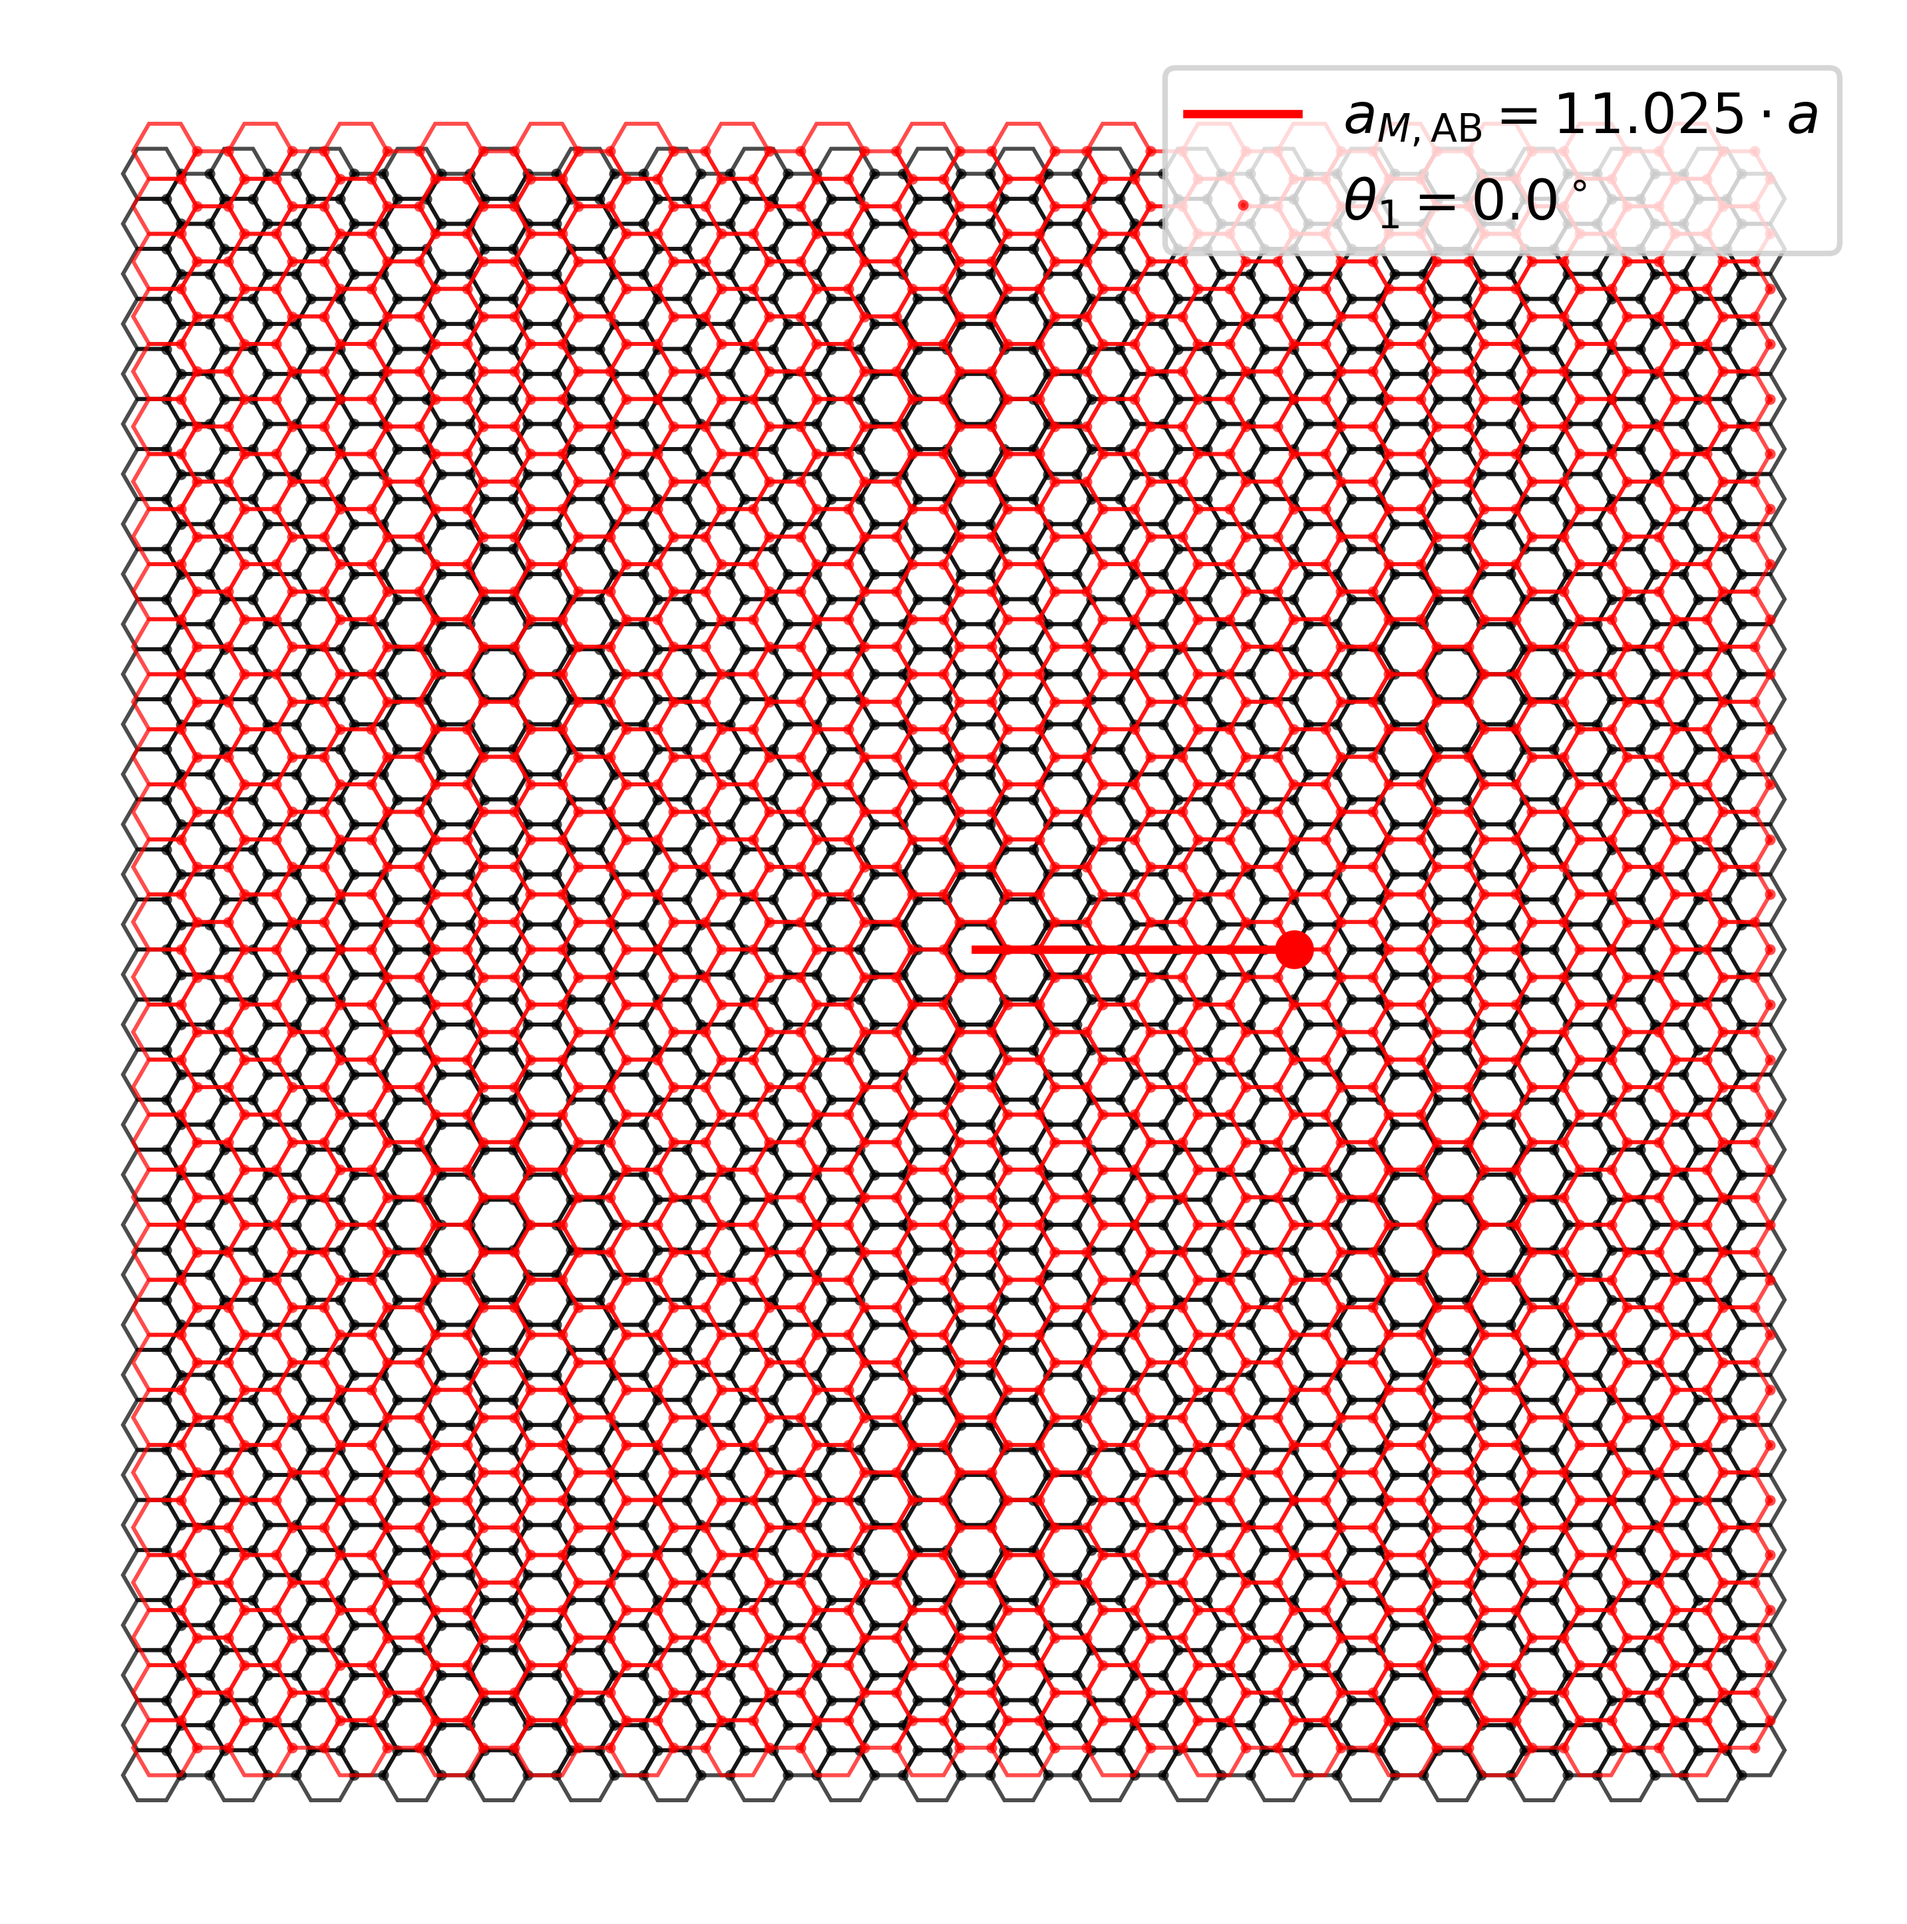
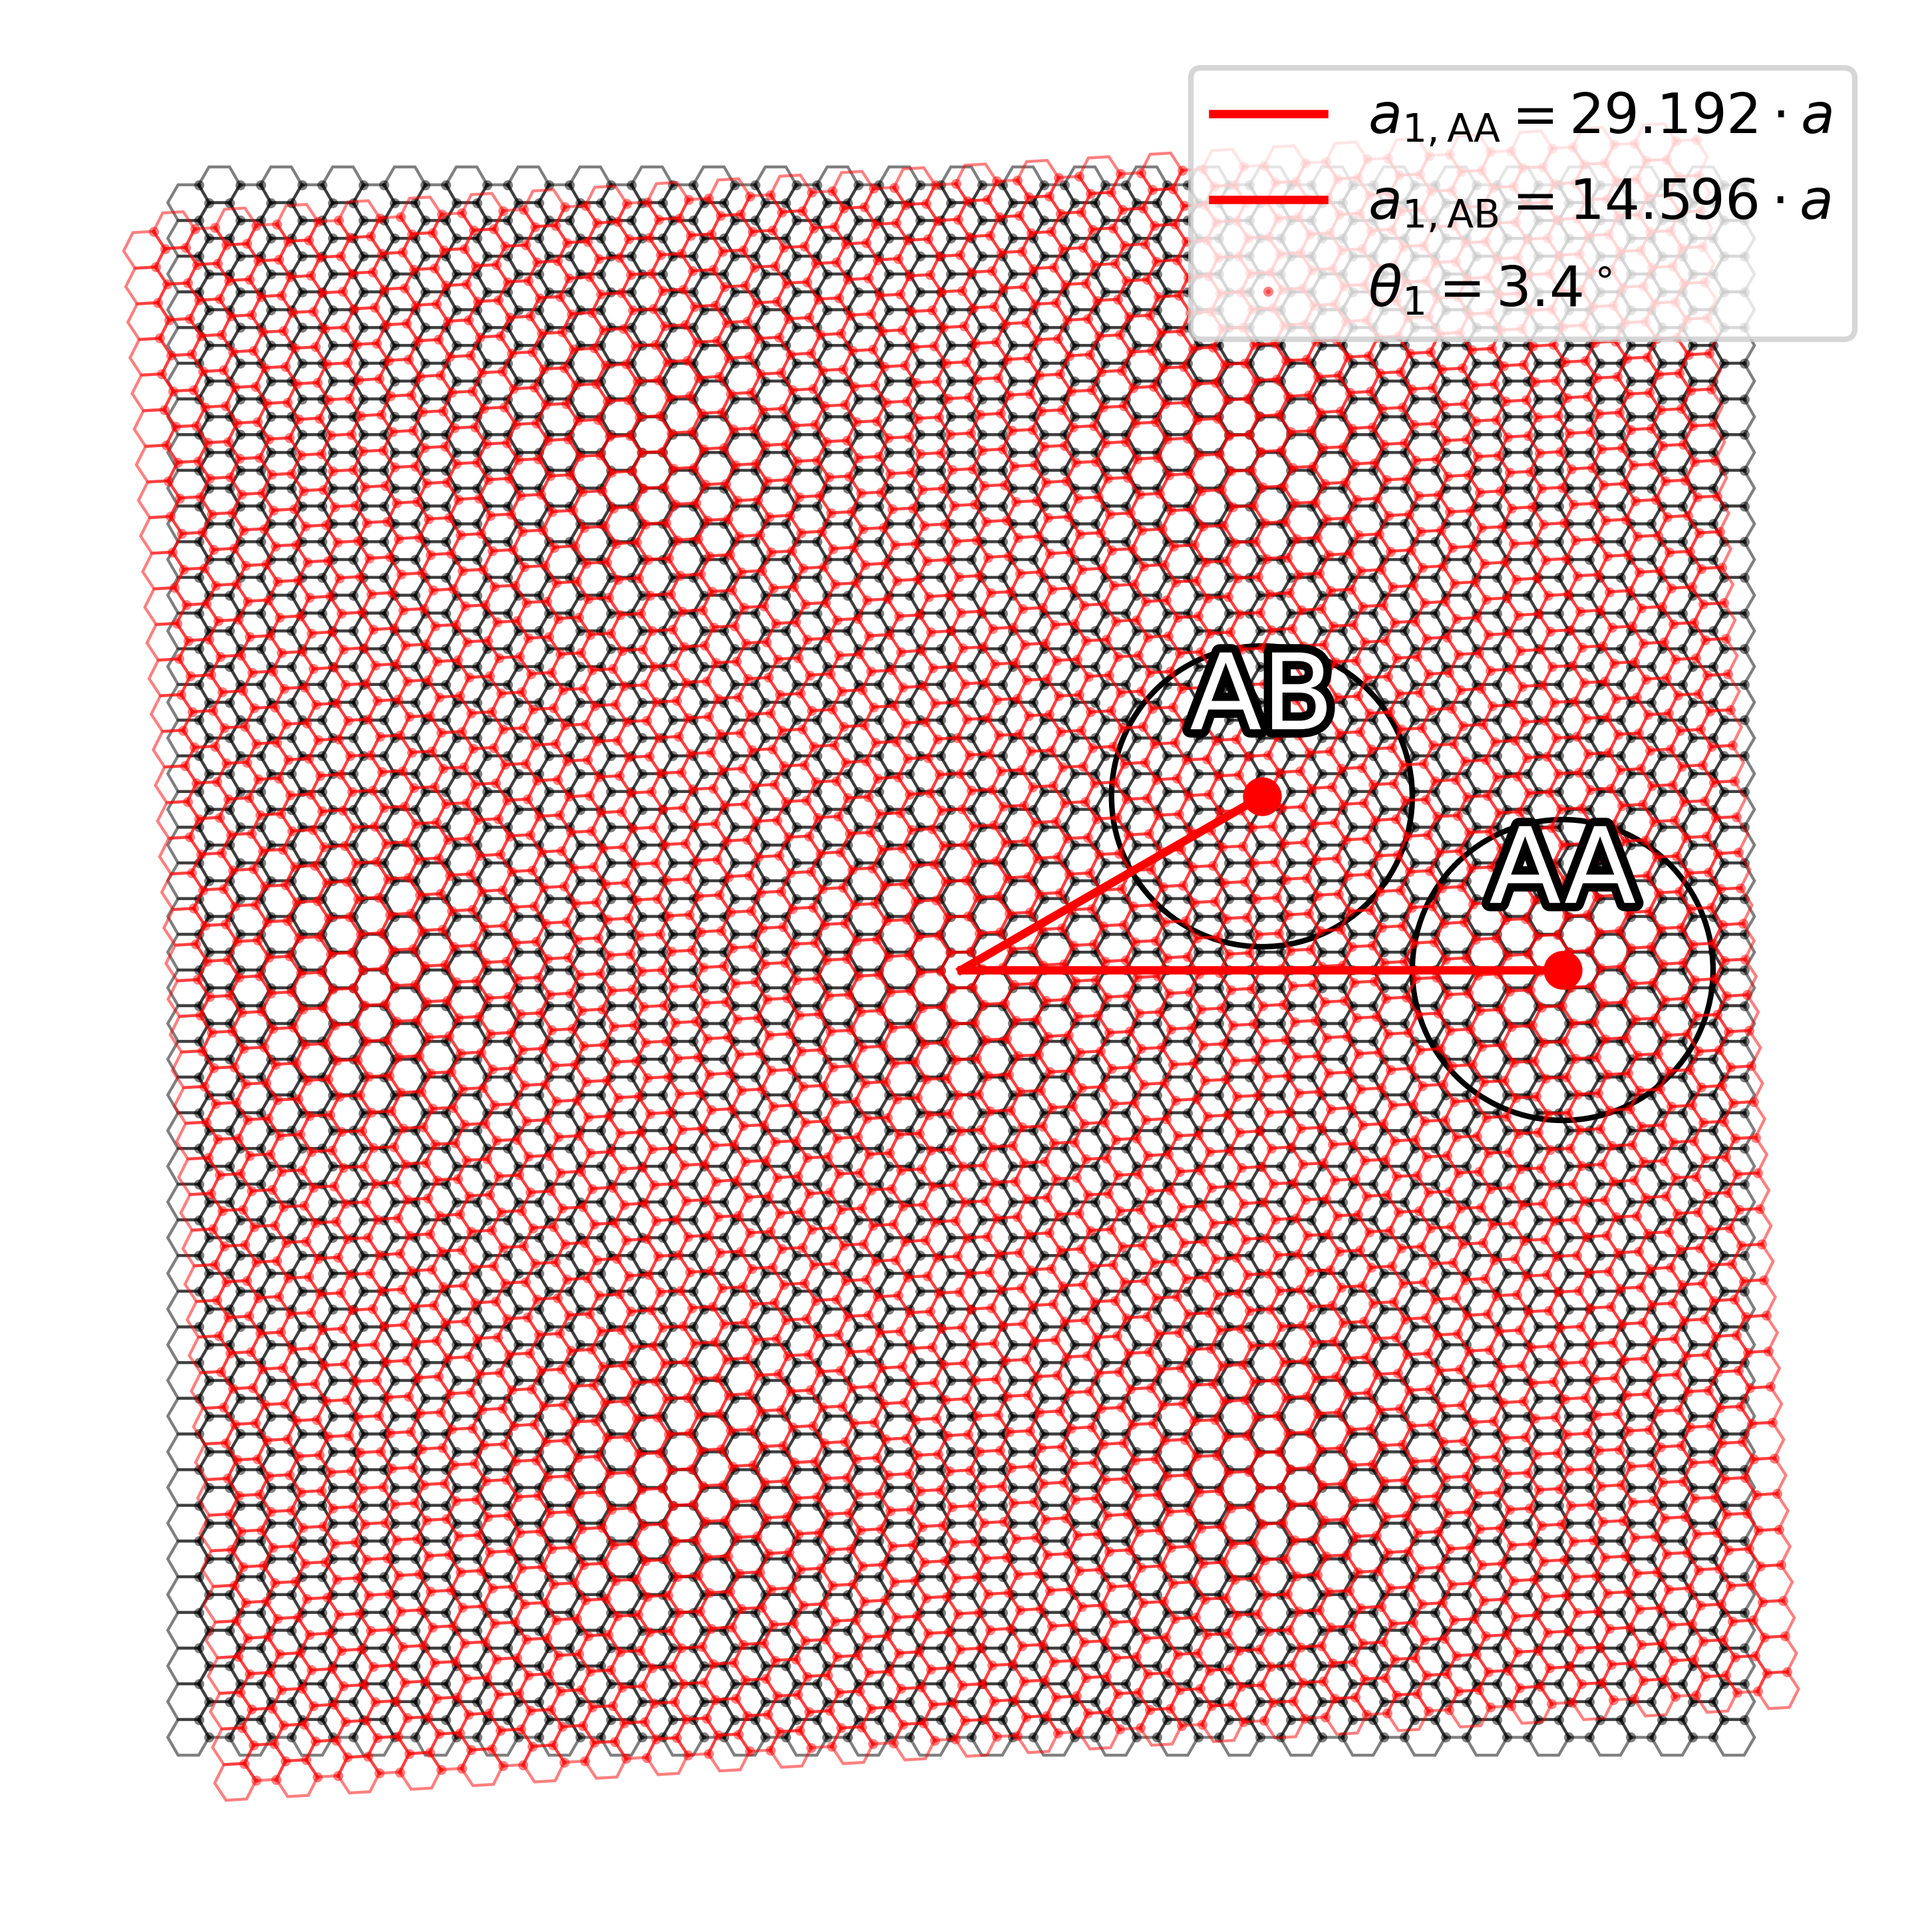
Added moire_utils to clean up moire_gen

diff --git a/Moire_gen_try/moire_utils.py b/Moire_gen_try/moire_utils.py
@@ -1,0 +1,241 @@
+# The following functions are used internally to generate and plot the moiré patterns. 
+# You don’t need to modify them unless you want to extend the functionality.
+
+import numpy as np
+import matplotlib.pyplot as plt
+import matplotlib.patches as patches
+from matplotlib import animation
+import matplotlib.patheffects as patheffects
+
+def hexlattice_gen(n, a):
+    x = np.arange(-n, n, a)
+    y = np.arange(-n, n, np.sqrt(3)/2 * a)
+    X, Y = np.meshgrid(x, y)
+    X[1::2, :] += a / 2  
+    
+    points = np.vstack([X.ravel(), Y.ravel()]).T
+    sentrum_points = []
+    for i in range(X.shape[0]):
+        row_x = X[i]
+        row_y = Y[i]
+        offset = 0 if i % 2 == 0 else 1
+        for j in range(offset, X.shape[1], 3):
+            sentrum_points.append([row_x[j], row_y[j]])
+    sentrum_points = np.array(sentrum_points)
+    center_point = sentrum_points[np.argmin(np.linalg.norm(sentrum_points, axis=1))]
+    points -= center_point
+    sentrum_points -= center_point
+    filtered_points = remove_centers(points, sentrum_points)
+    return filtered_points, sentrum_points
+
+def remove_centers(points, sentrum_points):
+    mask = np.ones(len(points), dtype=bool)
+    for sp in sentrum_points:
+        mask &= ~np.all(points == sp, axis=1)
+    return points[mask]
+
+def rot_lattice(points, theta): 
+    theta_rad = np.radians(theta)
+    rotation_matrix = np.array([[np.cos(theta_rad), -np.sin(theta_rad)],
+                                 [np.sin(theta_rad),  np.cos(theta_rad)]])
+    rotated_points = points @ rotation_matrix.T
+    return rotated_points
+
+def draw_hexagons(ax, sentrum_points_rotated, sentrum_points_original, a, color, alpha, linewidth):
+    for (cx, cy), (cx0, cy0) in zip(sentrum_points_rotated, sentrum_points_original):
+        v0 = np.array([cx0, cy0, 0])
+        v1 = np.array([cx, cy, 0])
+        det = np.cross(v0, v1)[2]
+        dot = np.dot(v0, v1)
+        delta_phi = np.degrees(np.arctan2(det, dot))
+        orientation_rad = np.radians(30 + delta_phi)
+        hexagon = patches.RegularPolygon(
+            (cx, cy), numVertices=6, radius=a, orientation=orientation_rad,
+            facecolor='none', edgecolor=color, alpha=alpha, linewidth=linewidth)
+        ax.add_patch(hexagon)
+
+def plot_a2_line(theta, a, color, i, variant, marker, show_stacking = False, ax=None, n=None): 
+    if show_stacking: variant = 'AA' 
+    if variant == 'AB': a = a / 2 
+    if theta == 0: a2 = a 
+    else: a2 = a / (2 * np.sin(np.radians(theta) / 2)) * np.cos(np.pi/6) 
+    x = np.linspace(0, a2, 300) 
+    y = np.zeros_like(x) 
+    label = fr'$a_{{{i},\mathrm{{{variant}}}}} = {a2:.3f}\cdot a$' 
+    if marker and variant == 'AA': 
+        x = np.linspace(0, a2, 300) 
+        y = np.zeros_like(x) 
+        plt.plot(x, y, '-', color = color, label = label) 
+        plt.plot(a2, 0, 'o', color = color) 
+        if show_stacking: 
+            path_effects = [patheffects.withStroke(linewidth=3, foreground='black', capstyle="round")] 
+            radius = a2/4 
+            circle = plt.Circle((a2, 0), radius=radius, color='Black', fill=False) 
+            ax.annotate("AA", xy=(a2, 0 + radius*0.3), fontsize=n/2, color='white',
+                        xycoords='data', ha='center', va='bottom',
+                        path_effects=path_effects)
+            plt.gca().add_patch(circle) 
+    if show_stacking: variant = 'AB' ; a2 = a2/2 ; label = fr'$a_{{{i},\mathrm{{{variant}}}}} = {a2:.3f}\cdot a$' 
+    if marker and variant == 'AB': 
+        a2 = a2 / np.cos(np.pi/6) 
+        x = np.linspace(0, a2, 300) 
+        y = np.zeros_like(x) 
+        points = np.stack([x, y], axis=-1) 
+        rot_vec = rot_lattice(points, 30) 
+        plt.plot(rot_vec[:, 0], rot_vec[:, 1], '-', color = color, label = label) 
+        plt.plot(rot_vec[-1, 0], rot_vec[-1, 1], 'o', color = color) 
+        if show_stacking: 
+            circle = plt.Circle((rot_vec[-1, 0], rot_vec[-1, 1]), radius=radius, color='Black', fill=False)
+            ax.annotate("AB", xy=(rot_vec[-1, 0], rot_vec[-1, 1] + radius*0.3), fontsize=n/2, color='white',
+                        xycoords='data', ha='center', va='bottom',
+                        path_effects=path_effects) 
+            plt.gca().add_patch(circle) 
+        else: plt.plot([], [], '-', color=color, label=label) 
+        plt.legend(loc='upper right')
+
+def plot_mult_hexlattice(a, layers, alpha, theta_max, n = 10, marker = True, 
+                         variant = 'AA', show_stacking = False):
+    colors = ['black', 'red', 'green', 'blue', 'orange']
+    fig, ax = plt.subplots(figsize=(6, 6))
+
+    for i in range(layers):
+        points, sentrum_points_orig = hexlattice_gen(n, a)
+        layer_theta = theta_max * i
+        points_rotated = rot_lattice(points, layer_theta)
+        sentrum_points_rotated = rot_lattice(sentrum_points_orig, layer_theta)
+        if i != 0: label = fr'$\theta_{{{i}}} = {layer_theta:.1f}^\circ$'
+        else: label = ''
+        if i != 0: plot_a2_line(layer_theta, a*2, colors[i % len(colors)], i, variant, marker, show_stacking, ax, n)
+        draw_hexagons(ax, sentrum_points_rotated, sentrum_points_orig, a,
+                      color=colors[i % len(colors)], alpha=alpha,
+                      linewidth=20/n)
+        ax.scatter(points_rotated[:, 0], points_rotated[:, 1],
+                   s=25/n, color=colors[i % len(colors)], alpha=alpha,
+                   label=label)
+
+    ax.set_aspect('equal')
+    plt.axis('off')
+    plt.legend(loc='upper right')
+    plt.savefig('moire_same_a.png', dpi=600, bbox_inches='tight', transparent=True)
+    plt.show()
+
+def plot_hexlattice_gif(a = 1.0, layers = 3, alpha = 0.6, theta_max = 30, n = 10, frames = 36, 
+                        filename = 'hex_rotation.gif', variant = 'AA', marker = True):
+    fig, ax = plt.subplots(figsize=(6, 6))
+
+    base_points, _ = hexlattice_gen(n, a)
+    max_extent = np.max(np.abs(base_points)) + a * 2
+    ax.set_xlim(-max_extent, max_extent)
+    ax.set_ylim(-max_extent, max_extent)
+
+    def update(frame):
+        ax.clear()
+        ax.set_xlim(-max_extent, max_extent)
+        ax.set_ylim(-max_extent, max_extent)
+        ax.set_aspect('equal')
+        ax.axis('off')
+
+        colors = ['black', 'red', 'green', 'blue', 'orange']
+        theta = frame / (frames - 1) * theta_max
+        for i in range(layers):
+            points, sentrum_points = hexlattice_gen(n, a)
+            points = rot_lattice(points, theta * i)
+            sentrum_points_orig = sentrum_points.copy()
+            sentrum_points = rot_lattice(sentrum_points, theta * i)
+            if i != 0: plot_a2_line(theta * i, a*2, colors[i % len(colors)], i, variant, marker)
+            draw_hexagons(ax, sentrum_points, sentrum_points_orig, a, colors[i % len(colors)], alpha=alpha, linewidth=20/n)
+            ax.scatter(points[:, 0], points[:, 1], s=25/n, color=colors[i % len(colors)], alpha=alpha)
+        ax.set_title(f'Rotation Angle from original axis: {theta:.1f}°')
+    anim = animation.FuncAnimation(fig, update, frames=frames, interval=100)
+    anim.save(filename, writer='pillow')
+    plt.close(fig)
+
+# For valying a:
+
+def plot_a2_line_diff_a(theta, a_arr, color, i, variant = 'AA', marker = True):
+    theta_rad = np.deg2rad(theta)
+    a_ref = np.mean(a_arr)
+    delta = (a_arr - a_ref) / a_ref
+    epsilon = 1e-6
+    denom = np.sqrt(delta**2 + theta_rad**2)
+    denom = np.where(denom == 0, epsilon, denom)
+    a_moire = a_ref / denom
+    if variant == 'AB': 
+        a_moire = a_moire / 2
+        a_moire_proj = a_moire
+    else: a_moire_proj = a_moire * np.cos(np.pi / 6)
+    label = fr'$a_{{M,\mathrm{{{variant}}}}} = {a_moire_proj[i]:.3f}\cdot a$'
+    if marker:
+        x = np.linspace(0, a_moire_proj[i], 300)
+        y = np.zeros_like(x)
+        points = np.stack([x, y], axis=-1)
+        rot_vec = rot_lattice(points, 0)
+        if variant == 'AA': 
+            rot_vec = rot_lattice(points, 30)
+        plt.plot(rot_vec[:, 0], rot_vec[:, 1], '-', color = color, label = label)
+        plt.plot(rot_vec[-1, 0], rot_vec[-1, 1], 'o', color = color)
+    else:
+        plt.plot([], [], '-', color=color, label=label)
+    plt.legend(loc='upper right')
+
+def plot_mult_hexlattice_diff_a(a_arr, n, alpha, theta, variant, marker = True):
+    layers = len(a_arr)
+    colors = ['black', 'red', 'green', 'blue', 'orange']
+    fig, ax = plt.subplots(figsize=(6, 6))
+    for i in range(layers):
+        a = a_arr[i]
+        points, sentrum_points_orig = hexlattice_gen(n, a)
+        layer_theta = theta * i
+        points_rotated = rot_lattice(points, layer_theta)
+        sentrum_points_rotated = rot_lattice(sentrum_points_orig, layer_theta)
+        if i != 0: label = fr'$\theta_{{{i}}} = {layer_theta:.1f}^\circ$'
+        else: label = ''
+        if i != 0: plot_a2_line_diff_a(layer_theta, a_arr, colors[i % len(colors)], i, variant, marker)
+        draw_hexagons(ax, sentrum_points_rotated, sentrum_points_orig, a,
+                      color=colors[i % len(colors)], alpha=alpha,
+                      linewidth=20/n)
+        ax.scatter(points_rotated[:, 0], points_rotated[:, 1],
+                   s=25/n, color=colors[i % len(colors)], alpha=alpha,
+                   label=label)
+    ax.set_aspect('equal')
+    plt.axis('off')
+    plt.legend(loc='upper right')
+    plt.savefig('moire_diff_a.png', dpi=600, bbox_inches='tight', transparent=True)
+    plt.show()
+
+def plot_hexlattice_gif_variable_a2(a = 1.0, a2_max = 1.2, alpha = 0.6, theta = 0.0, n = 40, 
+                                    frames = 36, filename = 'hex_variable_a2.gif', variant = 'AA', marker = True):
+    layers=2
+    fig, ax = plt.subplots(figsize=(6, 6))
+    base_points, _ = hexlattice_gen(n, a)
+    max_extent = np.max(np.abs(base_points)) + a2_max * 2
+    ax.set_xlim(-max_extent, max_extent)
+    ax.set_ylim(-max_extent, max_extent)
+
+    def update(frame):
+        ax.clear()
+        ax.set_xlim(-max_extent, max_extent)
+        ax.set_ylim(-max_extent, max_extent)
+        ax.set_aspect('equal')
+        ax.axis('off')
+        colors = ['black', 'red', 'green', 'blue', 'orange'] 
+        a2 = a + (a2_max - a) * frame / (frames - 1)
+        a_arr = np.array([a, a2])
+
+        for i in range(layers):
+            a_layer = a_arr[i] if i < len(a_arr) else a
+            points, sentrum_points = hexlattice_gen(n, a_layer)
+            points = rot_lattice(points, theta * i)
+            sentrum_points_orig = sentrum_points.copy()
+            sentrum_points = rot_lattice(sentrum_points, theta * i)
+
+            if i != 0: plot_a2_line_diff_a(theta * i, a_arr, colors[i % len(colors)], i, variant, marker)
+            draw_hexagons(ax, sentrum_points, sentrum_points_orig, a_layer,
+                          colors[i % len(colors)], alpha=alpha, linewidth=20/n)
+            ax.scatter(points[:, 0], points[:, 1], s=25/n,
+                       color=colors[i % len(colors)], alpha=alpha)
+        ax.set_title(fr'$a_2 = {a2:.3f}\cdot a,\ \theta = {theta:.1f}^\circ$')
+
+    anim = animation.FuncAnimation(fig, update, frames=frames, interval=100)
+    anim.save(filename, writer='pillow')
+    plt.close(fig)
